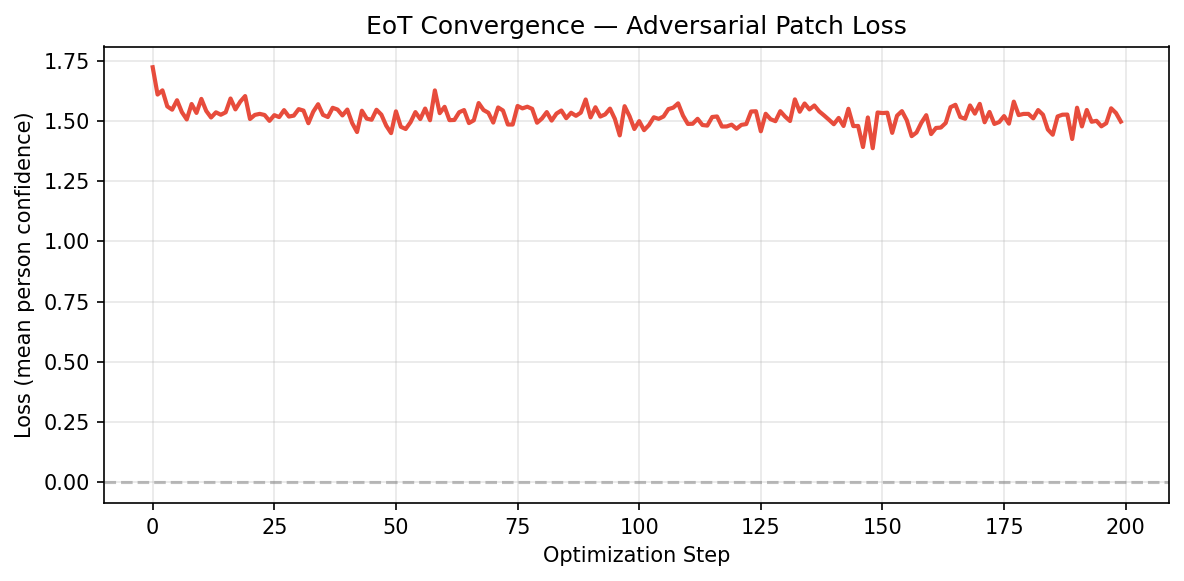
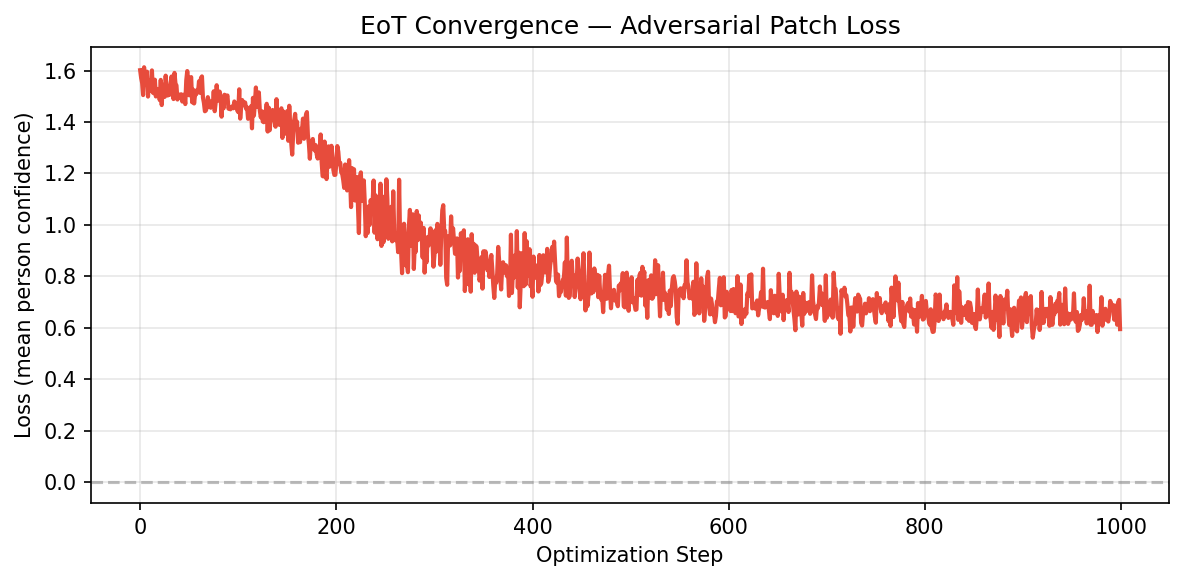
sistemato il drop modificando TV_WEIGHT e gradiente

diff --git a/laws_sim/patch_optimizer.py b/laws_sim/patch_optimizer.py
@@ -95,7 +95,7 @@ def build_anchor_mask(patch_bbox: Tuple[int,int,int,int],
 # ══════════════════════════════════════════════════════════════════════
 
 class PatchOptimizer:
-    TV_WEIGHT = 0.005
+    TV_WEIGHT = 0.001
 
     def __init__(self, patch_h: int = PATCH_H, patch_w: int = PATCH_W,
                  model_path: str = "yolov8n.pt"):
@@ -170,10 +170,9 @@ class PatchOptimizer:
         t = TF.adjust_brightness(t, random.uniform(0.6, 1.4))
         t = TF.adjust_contrast(t,   random.uniform(0.7, 1.3))
 
-        if random.random() < 0.5:
-            t = TF.hflip(t)
+    
 
-        sigma = random.uniform(0, 1.5)
+        sigma = random.uniform(0, 1.0)
         if sigma > 0.3:
             t = TF.gaussian_blur(t, kernel_size=max(3, int(sigma*4)|1), sigma=sigma)
 

diff --git a/laws_sim/config.py b/laws_sim/config.py
@@ -71,7 +71,7 @@ PATCH_H = 100                 # FIX: era 240 → patch enorme che copriva tutta 
 PATCH_W = 80                  # 100×80 px su immagine 640×640 = ~2.5% dell'immagine,
                                # realistico per un logo stampato su indumento , tipo A5, boh?!
 PATCH_LR = 0.03
-PATCH_STEPS = 80
+PATCH_STEPS = 1000
 PATCH_EPS = 0.05
 EOT_N_TRANSFORMS = 8
 PERSON_CLASS_ID = 0           # COCO classe 0 = "person"
